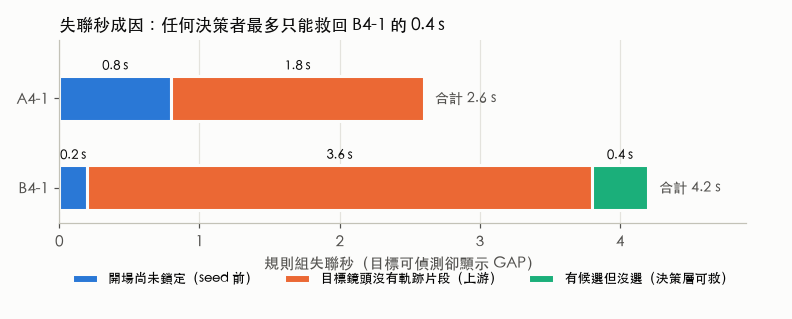
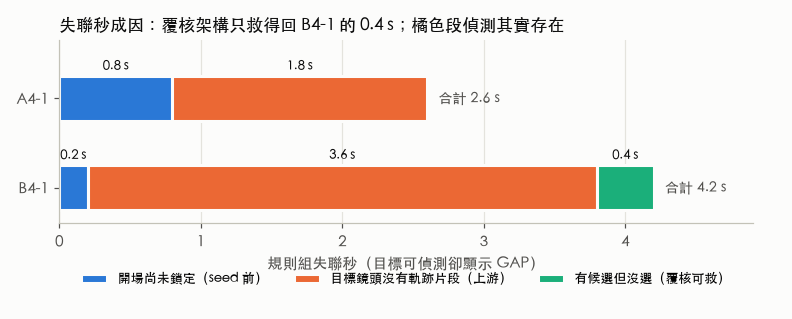
docs(eval): #636 scope 'unrecoverable' to the review architecture
Conclusions 1-3 and section 1.2c now say lost seconds are unrecoverable
only under D325's review-only setup; detections exist in the gaps, so a
vision + graph-prediction Agent has a theoretical ceiling (A4-1 2.6->0.8 s,
B4-1 4.2->0.2 s; strict follow 0.944->0.983, 0.897->0.995) limited by
4-5 s call latency. Adds section 1.4 (untested direction), notes the 8785
Agent switch defect, fixes 27/34 count, chart title.

diff --git a/docs/evaluation/rule_vs_llm_20261120/charts.py b/docs/evaluation/rule_vs_llm_20261120/charts.py
@@ -13,7 +13,7 @@ def clean(ax):
     ax.grid(axis='x',color='#e4e3dd',lw=0.8); ax.set_axisbelow(True)
 # 1 lost seconds by cause
 fig,ax=plt.subplots(figsize=(7.2,2.9),dpi=110)
-cats=[('BEFORE_FIRST_SEED','開場尚未鎖定（seed 前）'),('NO_TRACKLET_FOR_VISIBLE_CAMERA','目標鏡頭沒有軌跡片段（上游）'),('CANDIDATE_UNSELECTED','有候選但沒選（決策層可救）')]
+cats=[('BEFORE_FIRST_SEED','開場尚未鎖定（seed 前）'),('NO_TRACKLET_FOR_VISIBLE_CAMERA','目標鏡頭沒有軌跡片段（上游）'),('CANDIDATE_UNSELECTED','有候選但沒選（覆核可救）')]
 evs=['A4-1','B4-1']; y=[1,0]
 for i,ev in enumerate(evs):
     left=0
@@ -27,7 +27,7 @@ for i,ev in enumerate(evs):
 h,l=ax.get_legend_handles_labels(); d=dict(zip(l,h))
 ax.legend([d[c[1]] for c in cats],[c[1] for c in cats],loc='upper center',bbox_to_anchor=(0.5,-0.2),ncol=3,frameon=False,fontsize=8.5)
 ax.set_yticks(y,evs); ax.set_ylim(-0.4,1.65); ax.set_xlim(0,4.9); ax.set_xlabel('規則組失聯秒（目標可偵測卻顯示 GAP）')
-ax.set_title('失聯秒成因：任何決策者最多只能救回 B4-1 的 0.4 s',loc='left',color=INK,fontsize=11)
+ax.set_title('失聯秒成因：覆核架構只救得回 B4-1 的 0.4 s；橘色段偵測其實存在',loc='left',color=INK,fontsize=11)
 clean(ax); fig.tight_layout(); fig.savefig(out+'/lost_seconds_by_cause.png'); plt.close(fig)
 # 2 candidate distribution
 fig,ax=plt.subplots(figsize=(7.2,3.0),dpi=110)
